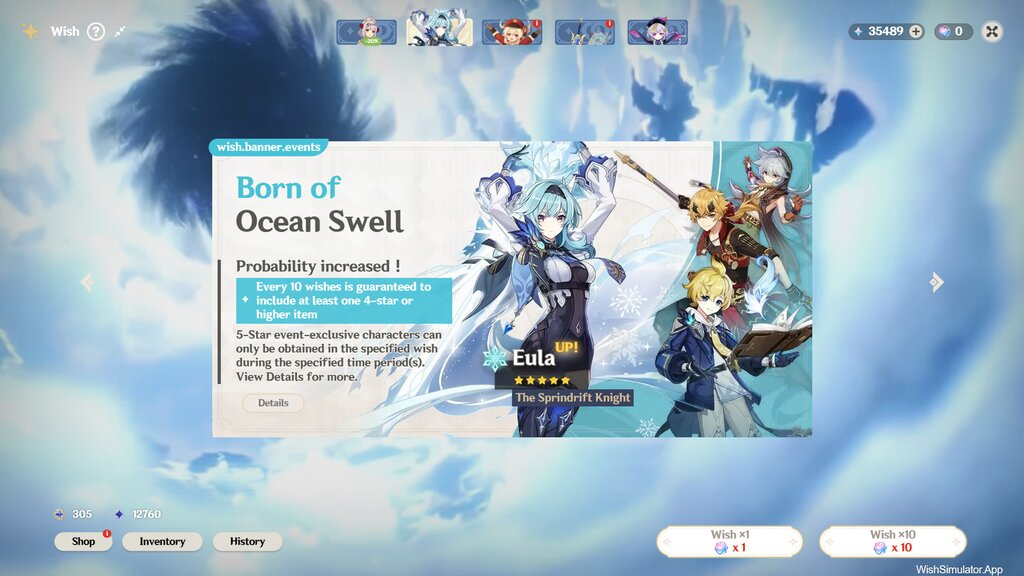
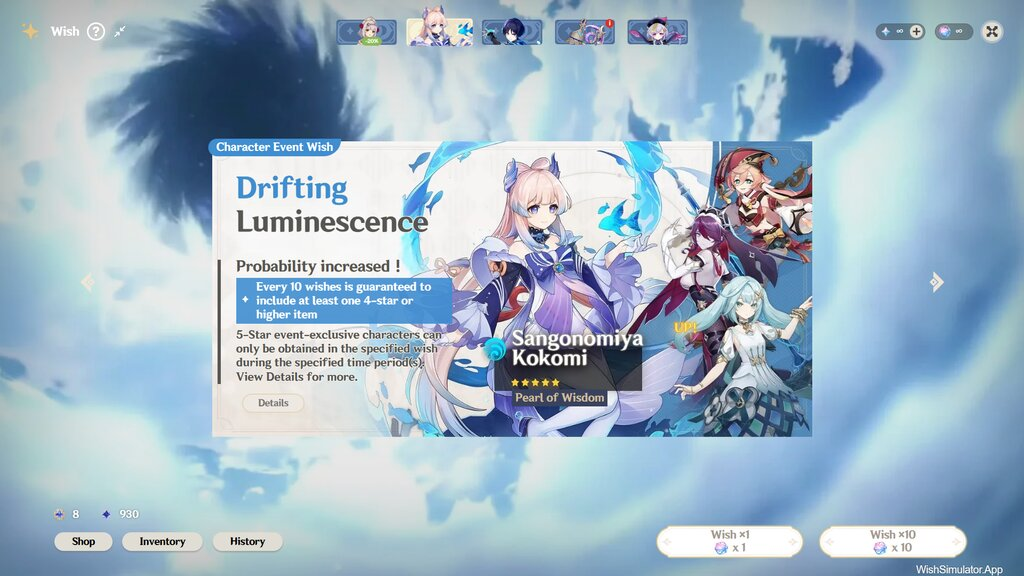
Update 2nd phase of 3.8

diff --git a/src/routes/_wish/banner-card/_character-frame.svelte b/src/routes/_wish/banner-card/_character-frame.svelte
@@ -33,7 +33,7 @@
 
 <div class="frame-content">
 	<div class="top bg-{vision}">
-		{$t('wish.banner.events')}
+		{$t('wish.banner.character-event')}
 		{event2 ? ($locale === 'ja-JP' ? '2' : '— 2') : ''}
 	</div>
 	<h1 class="card-stroke" in:fly={{ x: 15, duration: 700 }}>

diff --git a/src/routes/_wish/banner-card/_weapon-frame.svelte b/src/routes/_wish/banner-card/_weapon-frame.svelte
@@ -18,7 +18,7 @@
 
 <div class="frame-content">
 	<div class="top bg-epitome">
-		{$t('wish.banner.weapons')}
+		{$t('wish.banner.weapon-event')}
 	</div>
 	<h1 in:fly={{ x: 10, duration: 700 }}>
 		{@html highlightBannerName($t(`banner.epitome-invocation`))}
